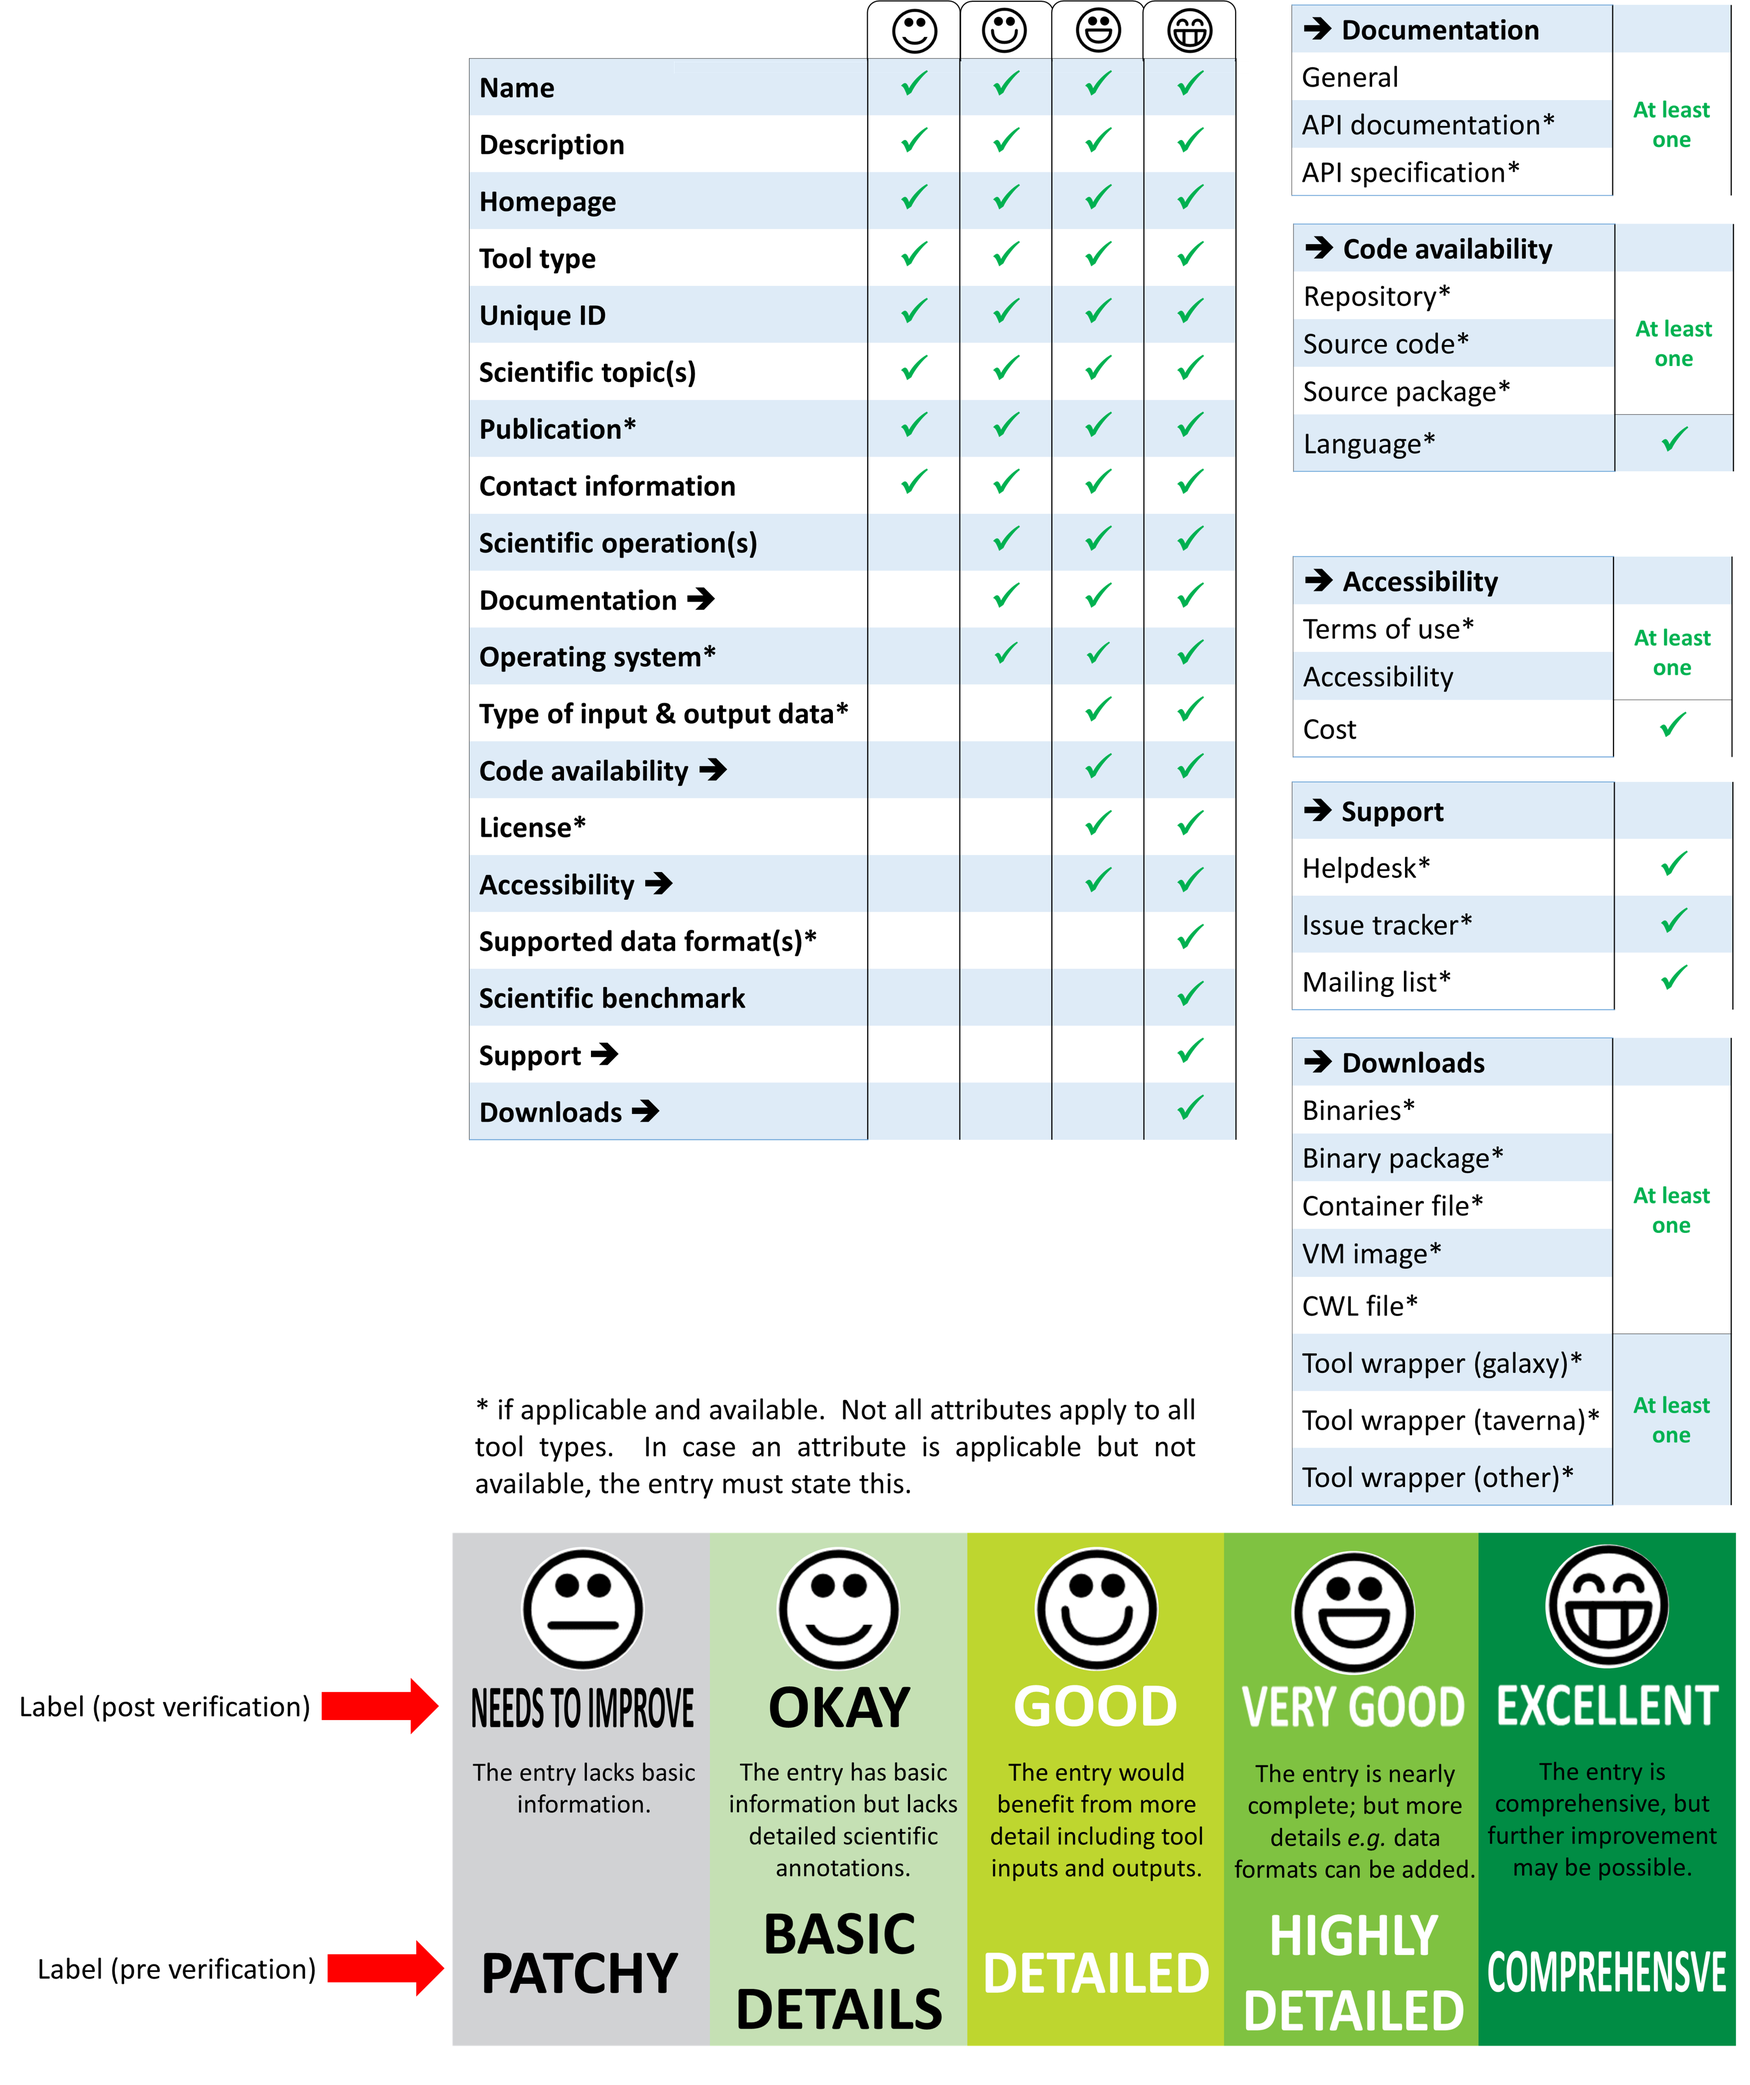
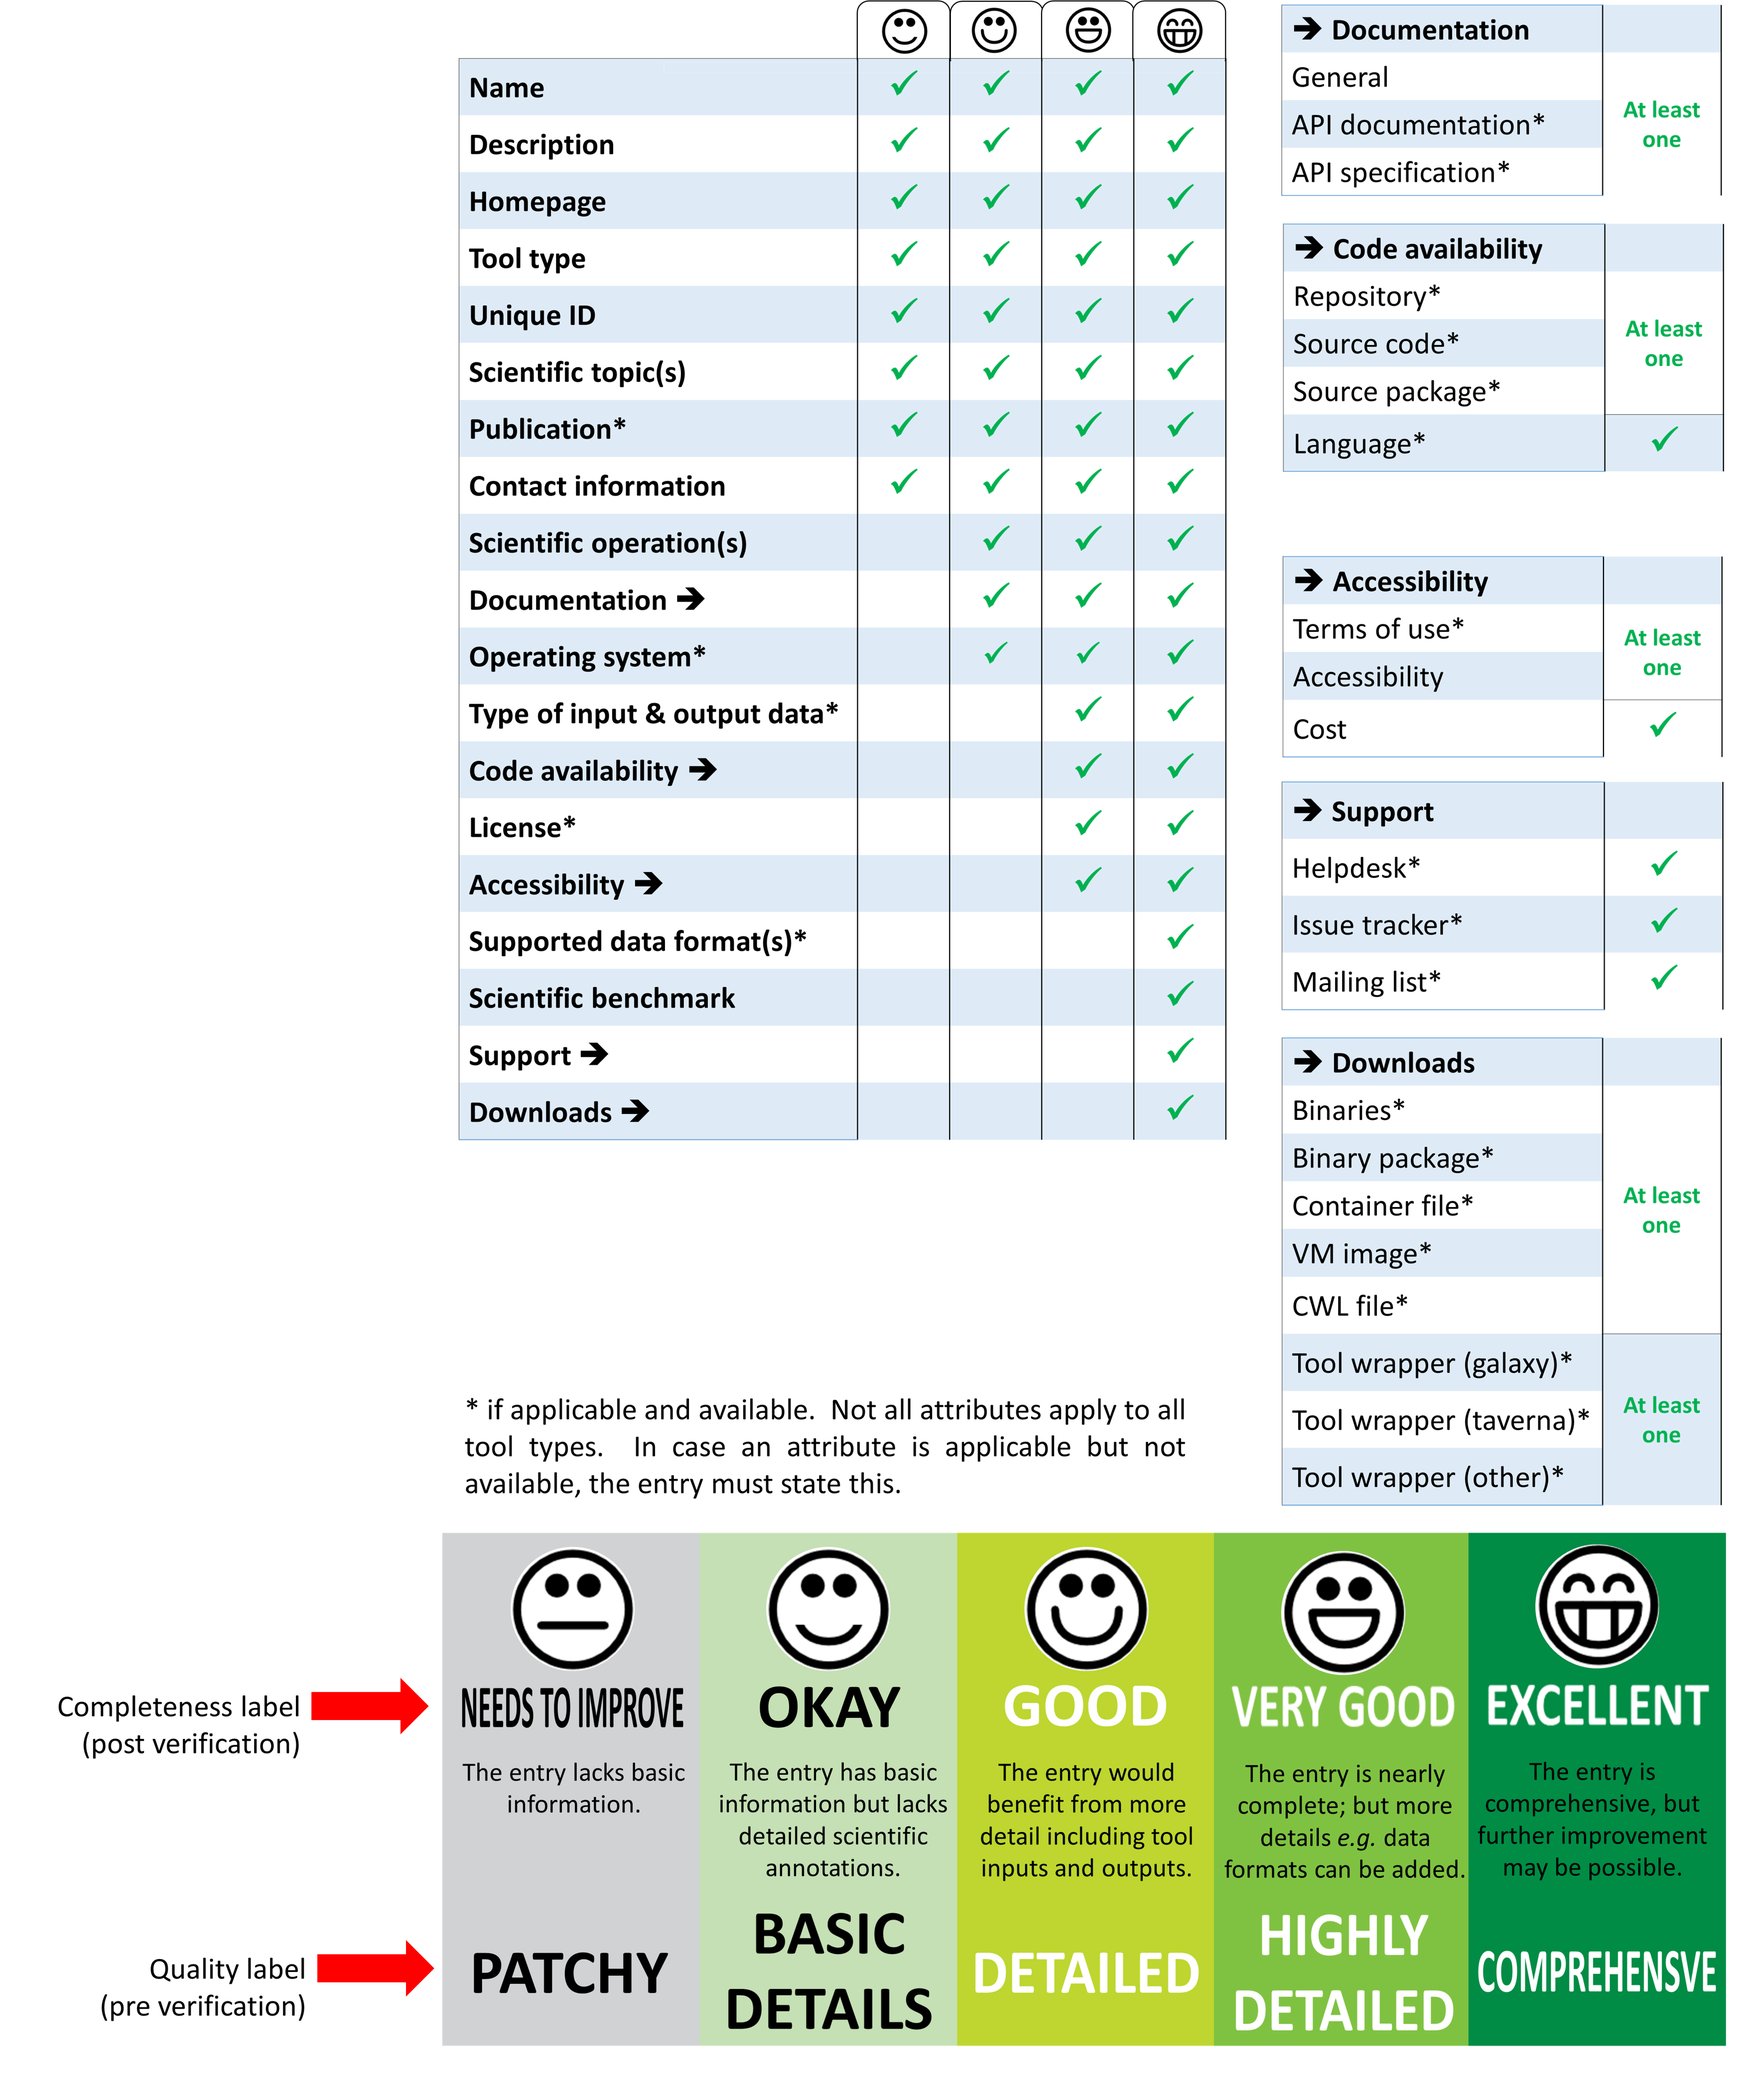
better description of labels

diff --git a/information_requirement.rst b/information_requirement.rst
@@ -51,6 +51,9 @@ General attributes
    "**Operating system**", "The operating system supported by a downloadable software package.", "enum (from biotoolsSchema)", "``<labels><OperatingSystem>``"
    "**Type of input & output data**", "Type of primary input / output data (if any), *e.g.* 'Protein sequences'", "Term and / or URI of `EDAM Data <http://edamontology.org/data_0006>`_ concept(s)", "``<function><input>/<output><data>``"
    "**Supported data formats**", "Allowed format(s) of primary inputs/outputs, *e.g.* 'FASTA'", "Term and / or URI of `EDAM Format <http://edamontology.org/format_1915>`_ concept(s)", "``<function><input>/<output><format>``"
+    "**License**", "Software or data usage license", "enum (from biotoolsSchema)", "``<labels><license>``"
+    "**Scientific benchmark**", "Scientific benchmarking results.", "tbd", "n/a"
+
 
 
 "Documentation" group
@@ -72,7 +75,6 @@ General attributes
    "**Repository**", "Link to repository where source code, data and other files may be downloaded", "URL", "``<link><type>Repository</type>``"
    "**Source code**", "Software source code.", "URL", "``<download><type>Source code</type>``"
    "**Source package**", "Source package (of various types) for the software.", "URL", "``<download><type>Source package</type>``"
-   "**License**", "Software or data usage license", "enum (from biotoolsSchema)", "``<labels><license>``"
    "**Language**", "Name of programming language the software source code was written in.", "enum (from biotoolsSchema)", "``<labels><Language>``"
 
 "Accessibility" group
@@ -85,7 +87,7 @@ General attributes
    "**Accessibility**", "Whether the software is freely available for use.", "enum (from biotoolsSchema)", "``<labels><Accessibility>``"
    "**Cost**", "Monetary cost of acquiring the software.", "enum (from biotoolsSchema)", "``<labels><Cost>``"
 
-"Community" group
+"Support" group
 ^^^^^^^^^^^^^^^^^
 .. csv-table:: 
    :header: "Attribute", "Description", "Format", "element"
